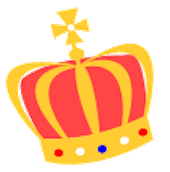
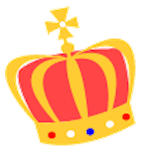
Modified images files.

diff --git a/BalanceGame/TopScene/BGTopMainLayer.m b/BalanceGame/TopScene/BGTopMainLayer.m
@@ -46,7 +46,7 @@
     }];
     startButton.position = ccp(screenSize.width/2, 50);
     
-    CCMenuItemImage *rankingButton = [CCMenuItemImage itemWithNormalImage:@"heart100.png" selectedImage:@"heart100.png" block:^(id sender) {
+    CCMenuItemImage *rankingButton = [CCMenuItemImage itemWithNormalImage:@"oukan.png" selectedImage:@"oukan.png" block:^(id sender) {
         if (self.onPressedRankingButton) self.onPressedRankingButton();
     }];
     rankingButton.position = ccp(screenSize.width/4, 50);
